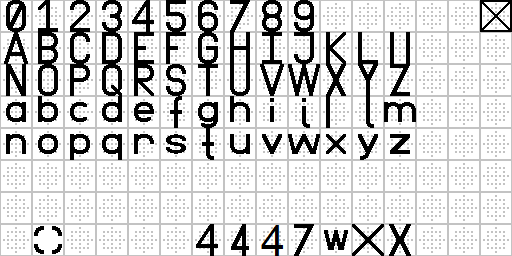
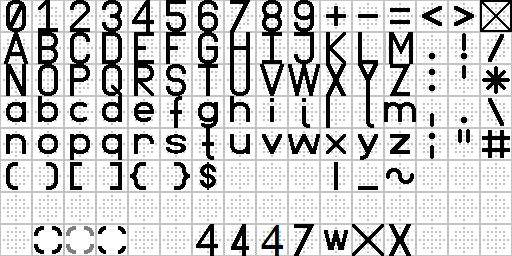
NoisePlane works again.

diff --git a/Examples/NoisePlane/main.cpp b/Examples/NoisePlane/main.cpp
@@ -1,0 +1,54 @@
+#include <iostream>
+#include <sstream>
+#include <exception>
+
+#include "OpenGL.hpp"
+#include "Debug.hpp"
+
+#include "DirectoryInfo.hpp"
+
+#include "Window.hpp"
+#include "ContextBase.hpp"
+
+
+
+#include "new.hpp"
+
+
+
+int main(int argc, char * argv[])
+{
+	std::cout << "int main() ...\n";
+	int ret = -1;
+	Debug::NewFileInDir(DirectoryInfo("./logs/"));
+	if (argc > 0)	{ Debug::Log << argv[0] << Debug::Done; }
+	else			{ Debug::Log << "NoName" << Debug::Done; }
+	if (glfwInit() == 0) { std::cout << "GLFW Init Failed\n"; return -1; }
+	{
+		try
+		{
+			Window window;
+			window.Create();
+			ContextBase::WindowPointer = &window;
+			ContextBase::Change(newContextNoisePlane);
+			while (ContextBase::NewContext.CanInvoke())
+			{
+				ContextBase * context = ContextBase::NewContext.Invoke();
+				ContextBase::NewContext.Assign(nullptr);
+				context -> Run();
+				delete context;
+			}
+			window.Delete();
+			ContextBase::WindowPointer = nullptr;
+			ret = 0;
+			std::cout << "MainContext done\n";
+		}
+		catch (std::exception & ex)
+		{ Debug::Log << "Error: " << ex.what() << Debug::Done; }
+		catch (...)
+		{ Debug::Log << "Error: " << "Unknown" << Debug::Done; }
+	}
+	glfwTerminate();
+	Debug::Log << "main() return " << ret << Debug::Done;
+	return ret;
+}

diff --git a/Examples/NoisePlane/Chunk/Manager.cpp b/Examples/NoisePlane/Chunk/Manager.cpp
@@ -455,9 +455,12 @@ ChunkManager::ChunkManager()
 	, ShaderU()
 	, ShaderLayoutU()
 	, BufferU()
+	, BufferLayoutU()
 {
 	ShaderU.UniformLayout = &ShaderLayoutU;
 	ShaderLayoutU.Shader = &ShaderU;
+
+	BufferU.Buffer.Layout = &BufferLayoutU;
 }
 
 
@@ -502,10 +505,9 @@ void ChunkManager::ChangeMedia(const DirectoryInfo & dir)
 		dir.File("Shaders/Voxel/Voxel.frag"),
 	});
 
-	BufferU.Layout.Voxel.Change(0);
-	BufferU.Layout.Texture.Change(1);
-	BufferU.Layout.Chunk.Change(2);
-	//BufferU.Buffer.ChangeAttributeLayoutMain(BufferU.Layout);
+	BufferLayoutU.Voxel.Change(0);
+	BufferLayoutU.Texture.Change(1);
+	BufferLayoutU.Chunk.Change(2);
 }
 
 void ChunkManager::GraphicsCreate()
@@ -514,11 +516,11 @@ void ChunkManager::GraphicsCreate()
 
 	Texture.Create();
 	ShaderU.Create();
-	BufferU.Buffer.Create();
+	BufferU.Create();
 
-	BufferU.NewSize(1024 * 1024 * 1024);
-	// Container::Void to Container::Array
-	// Container::Void constructor(size, data)
+	BufferU.Init();
+	unsigned int count = 1024 * 1024 * 1024 / sizeof(VoxelGraphics::MainDataU);
+	BufferU.NewSize(sizeof(VoxelGraphics::MainDataU), count);
 
 	GraphicsExist = true;
 }
@@ -528,9 +530,9 @@ void ChunkManager::GraphicsDelete()
 
 	Texture.Delete();
 	ShaderU.Delete();
-	BufferU.Buffer.Delete();
+	BufferU.Delete();
 
-	BufferU.Size = 0;
+	BufferU.Buffer.Count = 0;
 
 	GraphicsExist = false;
 }
@@ -623,6 +625,7 @@ void ChunkManager::Draw()
 
 
 	sw_part.Clear(); sw_part.Start();
+	BufferU.Bind();
 	BufferU.Draw();
 	sw_part.Stop(); DrawBufferDraw.NewValue(sw_part.ElapsedTime());
 

diff --git a/Examples/NoisePlane/Graphics/Buffer.hpp b/Examples/NoisePlane/Graphics/Buffer.hpp
@@ -4,22 +4,16 @@
 # include "Main/Buffer.hpp"
 # include "Inst/Buffer.hpp"
 
+# include "Graphics/VertexArray/Multi.hpp"
 # include "Graphics/VertexArray/Main.hpp"
 # include "Graphics/VertexArray/MainInst.hpp"
 
 namespace VoxelGraphics
 {
-	typedef ::VertexArray::Main BufferU;
-	/*typedef ::VertexArray::Main<
-		GL::BufferDataUsage::DynamicDraw,
-		GL::DrawMode::Triangles
-	> BufferU;*/
-	typedef ::VertexArray::MainInst BufferF;
-	/*typedef ::VertexArray::MainInst<
-		GL::BufferDataUsage::DynamicDraw,
-		GL::BufferDataUsage::StaticDraw,
-		GL::DrawMode::Triangles
-	> BufferF;*/
+	typedef VertexArray::Multi BufferU;
+	typedef VertexArray::Multi::Entry BufferEntryU;
+
+	typedef VertexArray::MainInst BufferF;
 };
 
 #endif

diff --git a/Examples/NoisePlane/ContextNoisePlane.cpp b/Examples/NoisePlane/ContextNoisePlane.cpp
@@ -99,6 +99,8 @@ ContextNoisePlane::ContextNoisePlane()
 	, AuxThread0(&ContextNoisePlane::AuxThread0Func, this)
 	, AuxThread0Time(64)
 {
+	MediaDirectory = DirectoryInfo("../../media/");
+
 	AuxThreadBase::ThreadName = "DrawThread";
 	PolyHedraManager.MakeCurrent();
 	Container::Array<Uniform::Layout *> layouts({
@@ -639,6 +641,8 @@ void ContextNoisePlane::Init()
 	std::cout << "ContextNoisePlane::Init:" << __LINE__ << '\n';
 	UIManager.TextManager.InitFont();
 	std::cout << "ContextNoisePlane::Init:" << __LINE__ << '\n';
+	UIManager.GraphicsInit();
+	std::cout << "ContextNoisePlane::Init:" << __LINE__ << '\n';
 	VoxelPalletMap::All.LoadTextures(ChunkManager);
 	std::cout << "ContextNoisePlane::Init:" << __LINE__ << '\n';
 	VoxelPalletMap::All.MakePolyHedra();
@@ -907,7 +911,7 @@ struct VoxelChunkMemoryInfo
 		{
 			buffer_data_memory += manager.BufferU.Entrys[i] -> Length;
 		}
-		buffer_data_limit = manager.BufferU.Size;
+		buffer_data_limit = manager.BufferU.Buffer.Count;
 	}
 	void	Show(std::stringstream & ss)
 	{
@@ -1569,11 +1573,3 @@ void ContextNoisePlane::MouseScroll(ScrollArgs args) { UIManager.MouseScroll(arg
 void ContextNoisePlane::MouseDrag(DragArgs args) { UIManager.MouseDrag(args); }
 void ContextNoisePlane::KeyBoardKey(KeyArgs args) { UIManager.KeyBoardKey(args); }
 void ContextNoisePlane::KeyBoardText(TextArgs args) { UIManager.KeyBoardText(args); }
-
-
-
-ContextBase * newContextNoisePlane()
-{
-	return new ContextNoisePlane();
-}
-// 1858

diff --git a/Examples/NoisePlane/Menus/Pause.cpp b/Examples/NoisePlane/Menus/Pause.cpp
@@ -87,10 +87,11 @@ void PauseMenu::DebugFunc(ClickArgs args)
 	}
 }
 
-#include "Selector/new.hpp"
+//#include "Selector/new.hpp"
 void PauseMenu::ExitFunc(ClickArgs args)
 {
-	if (args.Action != Action::Press) { return; }
-	ContextBase::Change(newSelectorContext);
-
+	if (args.Action == Action::Press)
+	{
+		//ContextBase::Change(newSelectorContext);
+	}
 }

diff --git a/Examples/NoisePlane/new.cpp b/Examples/NoisePlane/new.cpp
@@ -1,0 +1,7 @@
+#include "new.hpp"
+#include "ContextNoisePlane.hpp"
+
+ContextBase * newContextNoisePlane()
+{
+	return new ContextNoisePlane();
+}

diff --git a/Examples/NoisePlane/Chunk.cpp b/Examples/NoisePlane/Chunk.cpp
@@ -286,7 +286,10 @@ void Chunk::BufferUData_Update()
 	if (!BufferUData_Have) { return; }
 
 	BufferUData.ArrayLock.lock();
-	BufferUData_Entry.Put(BufferUData.GraphicsDataU());
+	{
+		const Container::Array<VoxelGraphics::MainFaceU> & data = BufferUData.GraphicsDataU();
+		Manager.BufferU.Put(BufferUData_Entry, sizeof(VoxelGraphics::MainDataU), data.ToVoid(), data.Length() * 6);
+	}
 	BufferUData.ClearU();
 	BufferUData.ArrayLock.unlock();
 

diff --git a/Examples/NoisePlane/Chunk/Manager.hpp b/Examples/NoisePlane/Chunk/Manager.hpp
@@ -51,7 +51,7 @@ struct VoxelHit;
 
 # include "Generics/Container/Array3D.hpp"
 
-# include "Graphics/MultiBufferChunkU.hpp"
+# include "Graphics/Buffer.hpp"
 
 
 
@@ -157,7 +157,8 @@ struct ChunkManager
 	Texture::Array2D				Texture;
 	::Shader::Base					ShaderU;
 	VoxelGraphics::ShaderLayout		ShaderLayoutU;
-	MultiBufferChunkU				BufferU;
+	VoxelGraphics::BufferU			BufferU;
+	VoxelGraphics::MainLayoutU		BufferLayoutU;
 
 
 

diff --git a/Examples/NoisePlane/Chunk.hpp b/Examples/NoisePlane/Chunk.hpp
@@ -36,7 +36,7 @@
 struct ChunkManager;
 struct Structure;
 
-# include "Graphics/MultiBufferChunkU.hpp"
+# include "Graphics/Buffer.hpp"
 
 /* Do I need Assign Lock ?
 
@@ -184,7 +184,7 @@ struct Chunk
 
 	public:
 	ChunkGraphicsData			BufferUData;
-	MultiBufferChunkU::Entry	BufferUData_Entry;
+	VoxelGraphics::BufferEntryU	BufferUData_Entry;
 	bool						BufferUData_Want;
 	void						BufferUData_Make();
 	bool						BufferUData_Have;